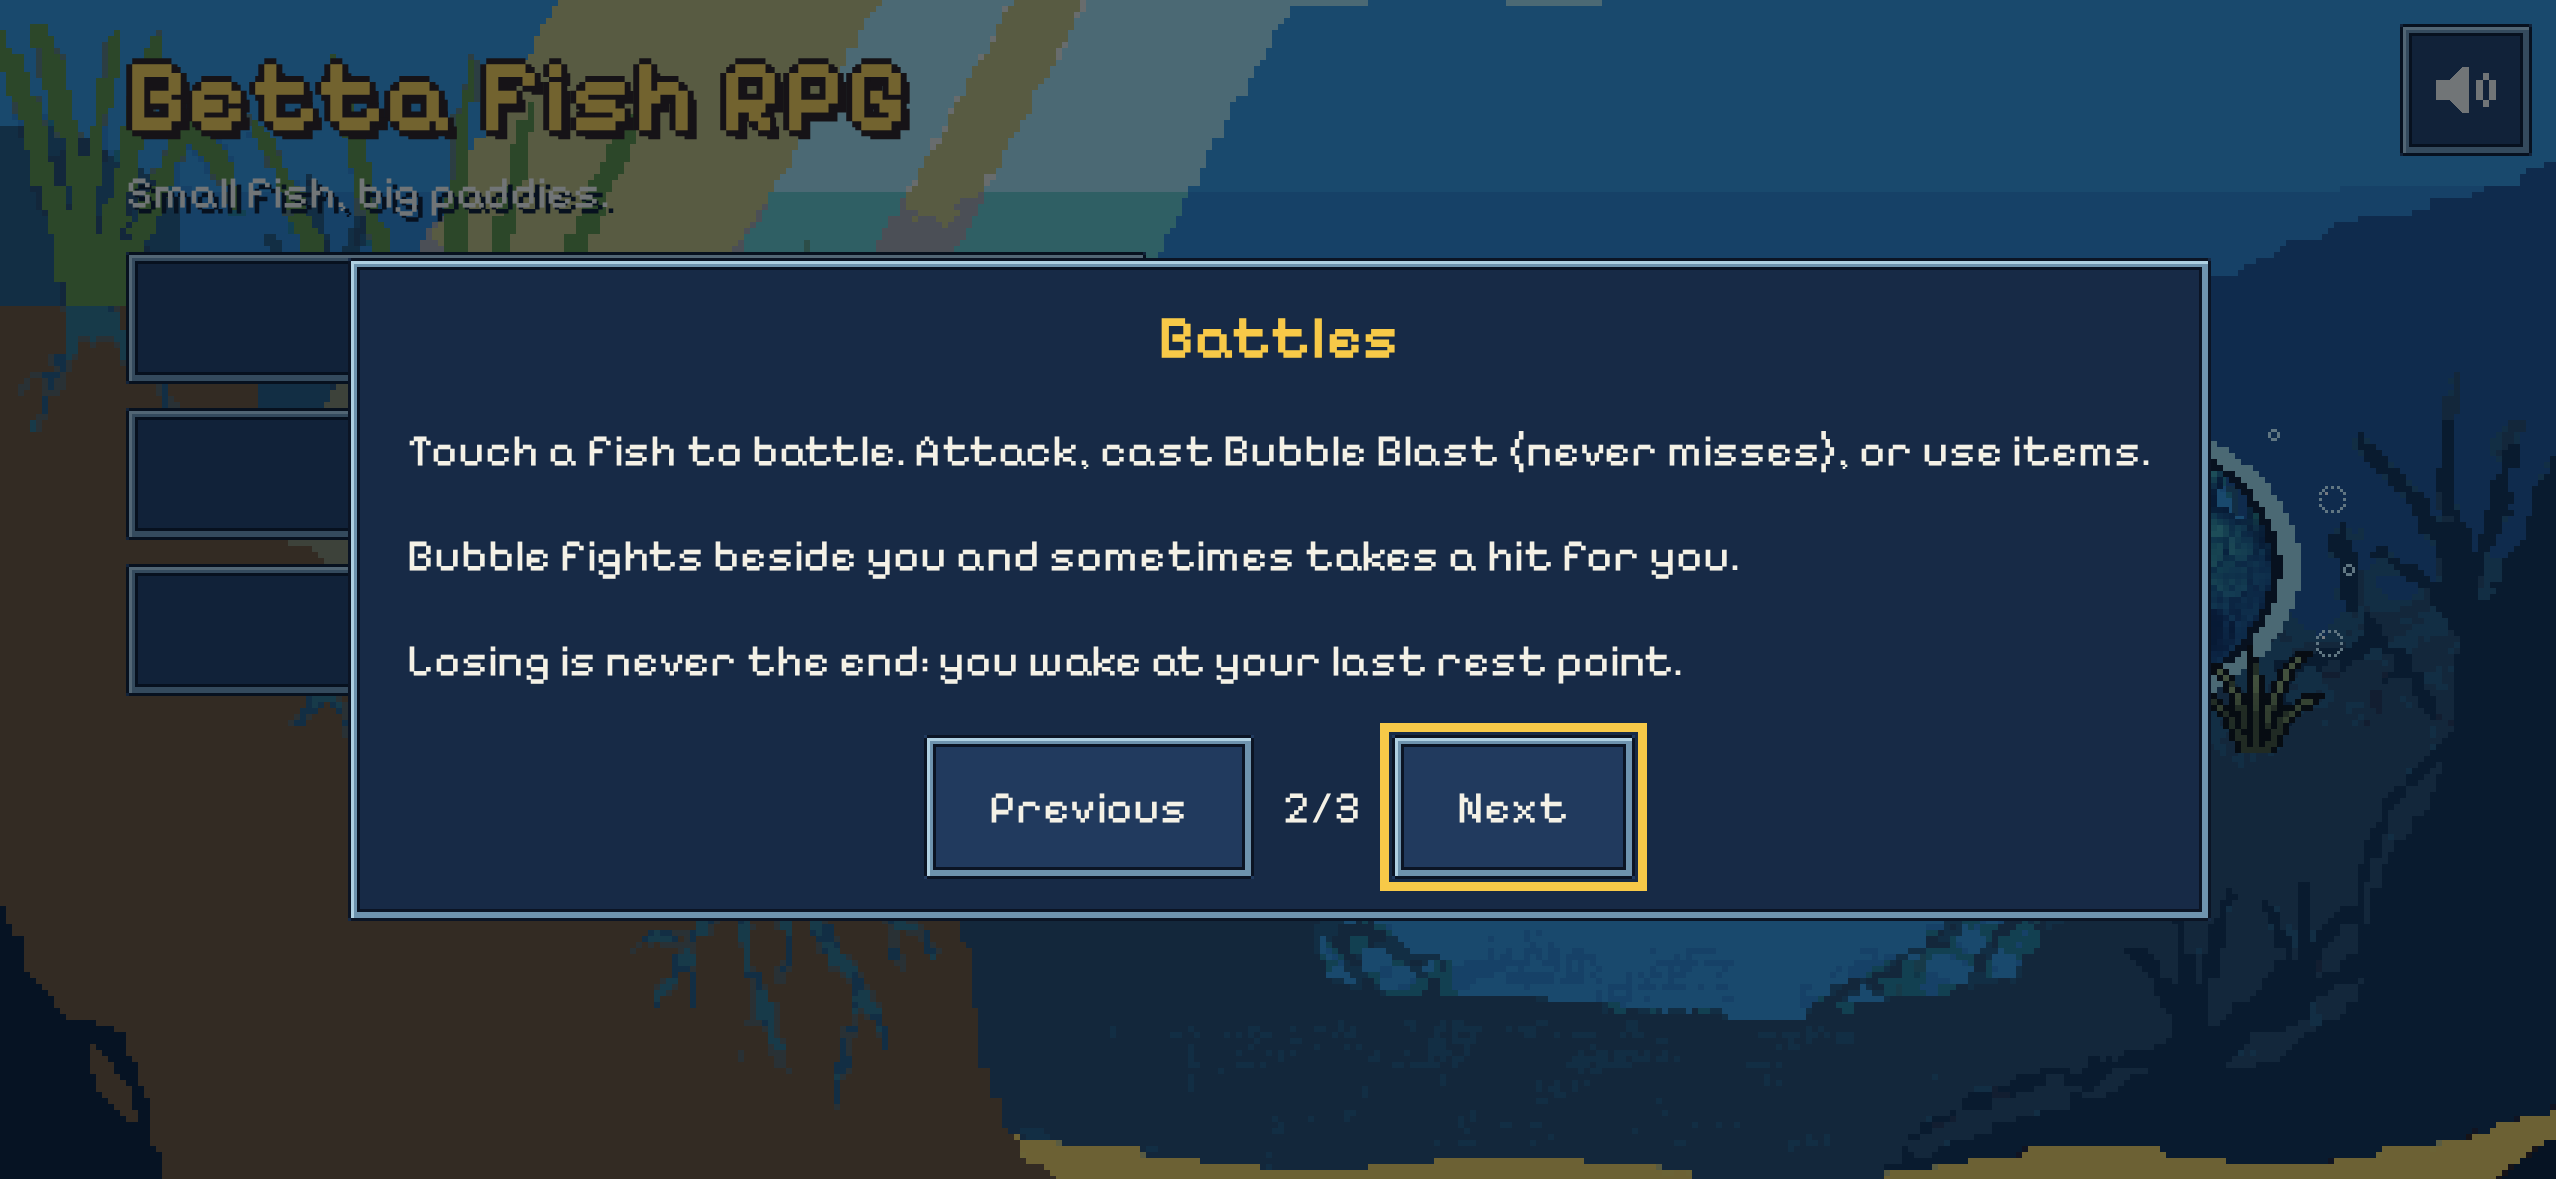
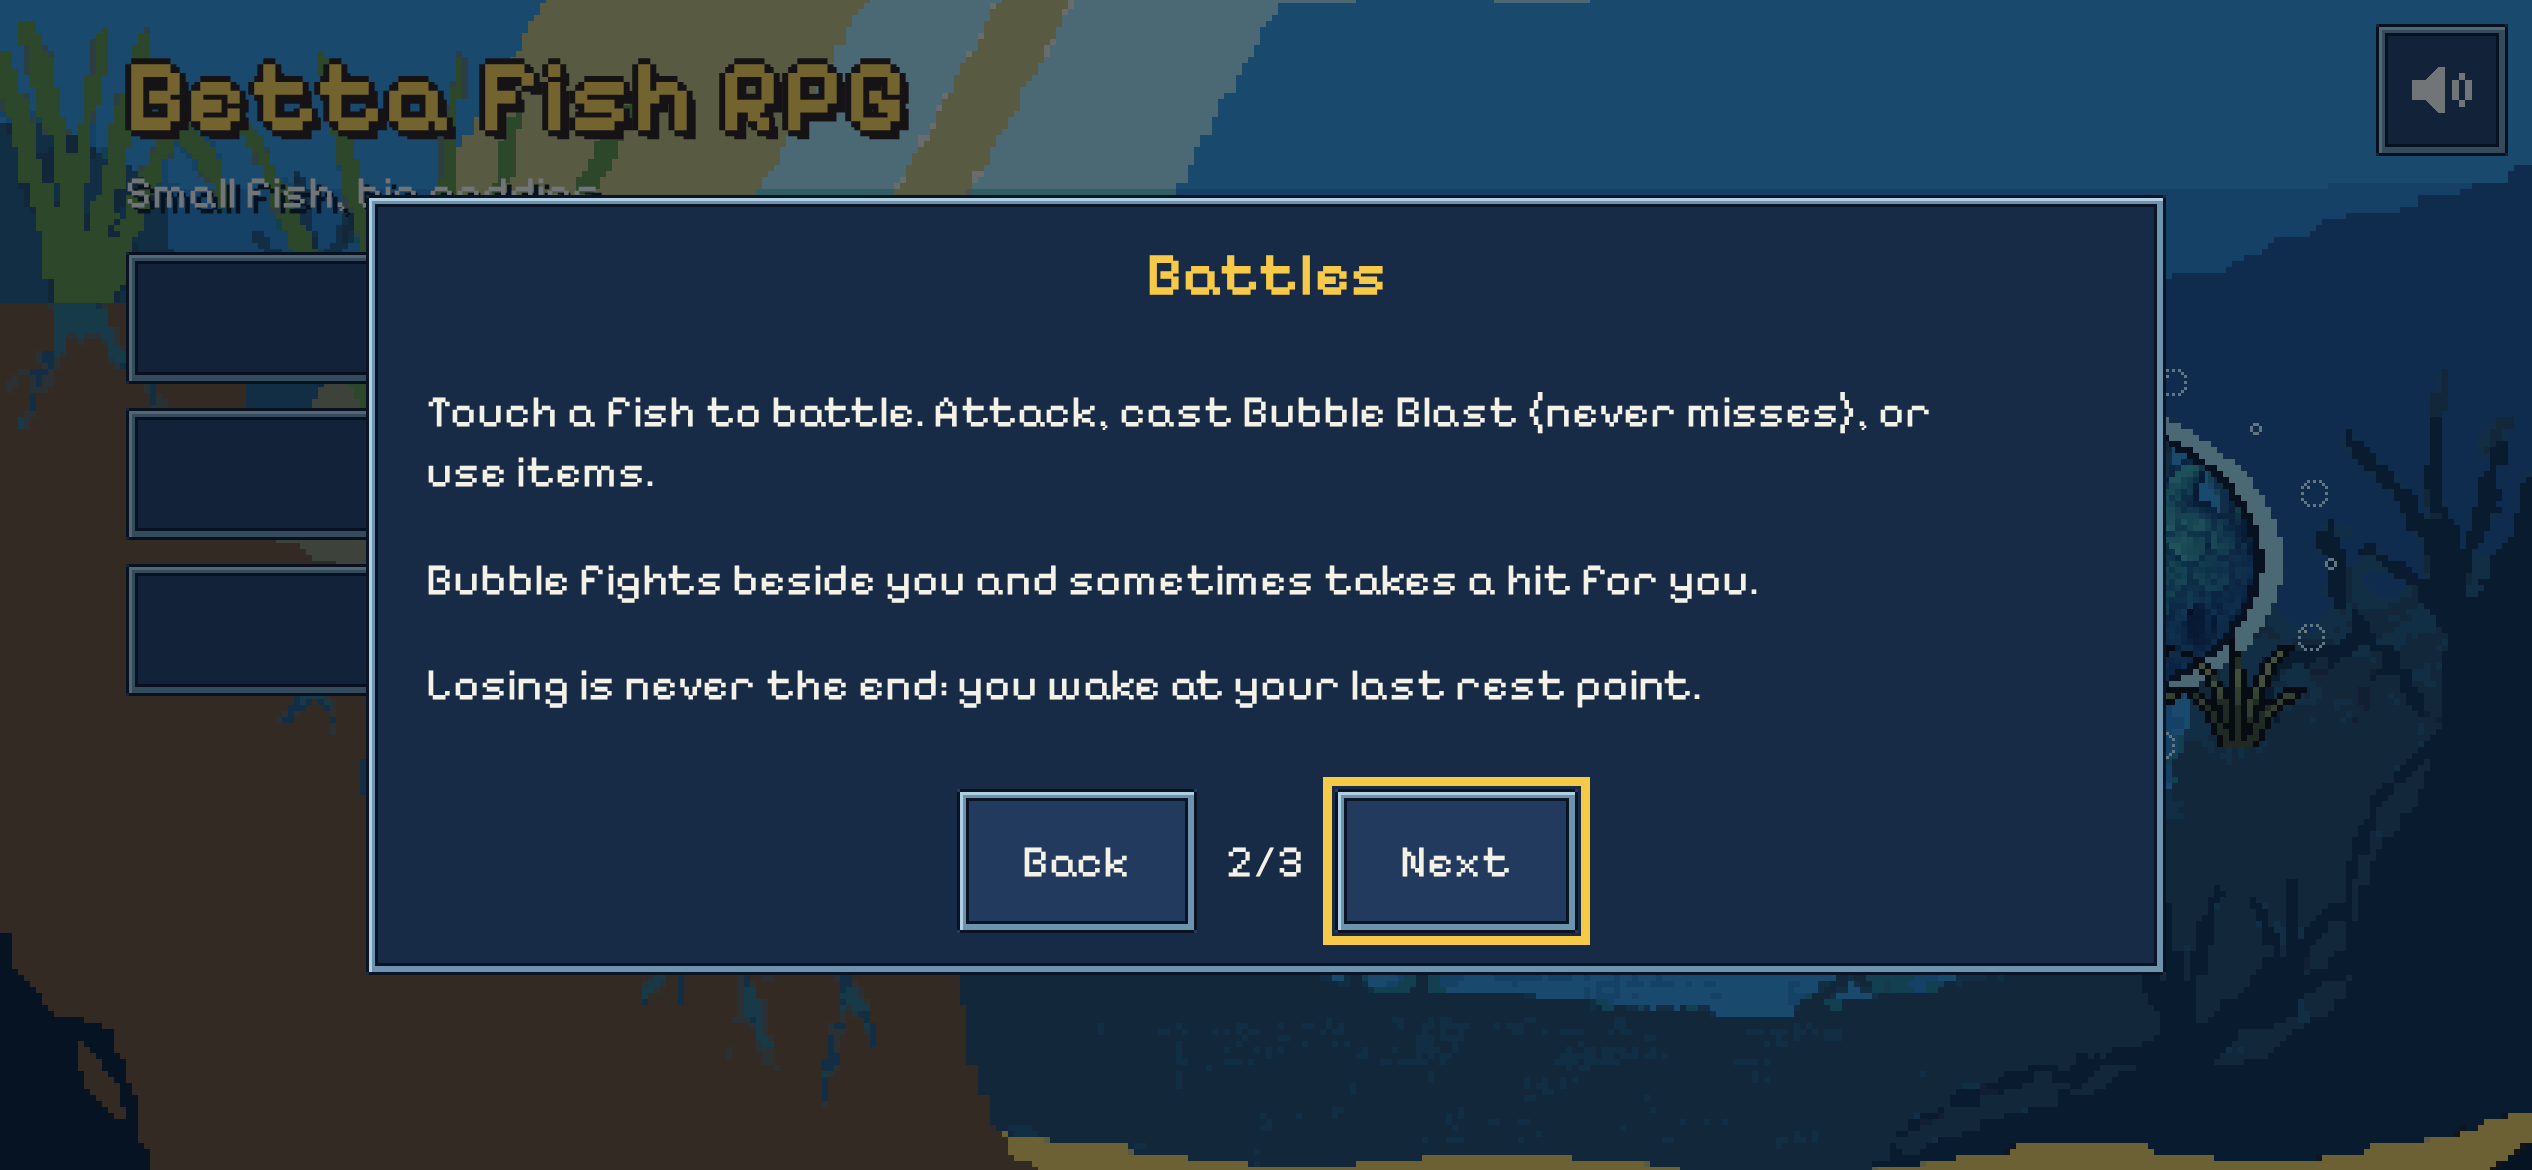
Polish re-check: tour covers the Gar fight, the sub, a won battle, ending and credits at every size; fresh screenshots; no lone words in credits or dialogue

diff --git a/tools/screens-tour.js b/tools/screens-tour.js
@@ -64,5 +64,28 @@ async (page) => {
   await page.evaluate(() => window.__game.goToLevel(4)); await sleep(1000); await shot('murk');
   await page.evaluate(() => window.__game.goToLevel(3)); await page.evaluate(() => window.__game.set({ pos: { x: 700, y: 300 } })); await sleep(1200); await shot('highwater');
   await page.evaluate(() => window.__game.goToLevel(5)); await page.evaluate(() => window.__game.set({ pos: { x: 300, y: 430 } })); await sleep(1200); await shot('ditch');
+  for (let i = 0; i < 10; i++) { const t = await st(); if (!t.dialog && !t.busy) break; await press('Space'); }
+  // the Gar fight, a level-up win, the sub, an ending and its credits
+  const waitIdle = async () => { for (let i = 0; i < 40; i++) { const t = await st(); if (t.inBattle && !t.inBattle.busy) return; await sleep(200); } };
+  await page.evaluate(() => window.__game.goToLevel(5)); await sleep(800);
+  for (let i = 0; i < 10; i++) { const t = await st(); if (!t.dialog && !t.busy) break; await press('Space'); }
+  await page.evaluate(() => { window.__game.set({ friends: { guppy: 3, angel: 3 } }); window.__game.battle('gar', 10); });
+  await sleep(1000); await waitIdle(); await shot('gar');
+  await press('Digit3'); await sleep(3500); await waitIdle(); await shot('gar-party');
+  await page.evaluate(() => window.__game.goToLevel(2)); await sleep(500);
+  await page.evaluate(() => { window.__game.set({ level: 4, sub: true, flags: { tutorialDone: true } }); window.__game.battle('guppy', 1); });
+  await sleep(1000); await waitIdle();
+  { const b = await page.locator('#bDive').boundingBox(); await page.mouse.click(b.x + 20, b.y + 20); }
+  await sleep(1800); await waitIdle(); await shot('battle-dive');
+  await page.evaluate(() => window.__game.goToLevel(1)); await sleep(500);
+  await page.evaluate(() => { window.__game.set({ level: 2, flags: { tutorialDone: true } }); window.__game.battle('angel', 2); });
+  await sleep(1000);
+  await page.evaluate(() => { const g = window.__game; g.set({}); });
+  for (let i = 0; i < 40; i++) { const t = await st(); if (!t.inBattle || t.inBattle.waiting) break; if (!t.inBattle.busy) await press('Digit1'); await sleep(500); }
+  await sleep(1500); await shot('battle-won');
+  await press('Enter'); await sleep(1500);
+  await page.evaluate(() => window.__game.ending('friend')); await sleep(4000); await shot('ending');
+  for (let i = 0; i < 30; i++) { const t = await st(); if (t.menus.includes('credits')) break; if (t.dialog) await press('Space'); await sleep(400); }
+  await sleep(600); await shot('credits');
   return JSON.stringify(out, null, 1);
 }

diff --git a/game/style.css b/game/style.css
@@ -131,7 +131,7 @@ body.inbattle #hint { align-items: flex-start; padding-top: calc(78px + var(--sa
 .dlgbox { display: flex; gap: 12px; width: min(820px, 100%); padding: 8px 14px 10px 8px; min-height: 104px; position: relative; }
 .dlgtext { flex: 1; min-width: 0; }
 .dname { color: var(--gold); margin-bottom: 2px; }
-.dline { line-height: 1.3; min-height: 2.6em; }
+.dline { line-height: 1.3; min-height: 2.6em; text-wrap: pretty; }
 .choices { display: flex; flex-wrap: wrap; gap: 8px; margin-top: 8px; }
 .dnext { position: absolute; right: 12px; bottom: 6px; color: var(--gold); animation: blink 0.8s infinite steps(2); }
 @keyframes blink { 50% { opacity: 0; } }
@@ -263,3 +263,4 @@ body.short.garfight .meter span { width: 14px; height: 18px; }
 body.short [data-screen=credits] .credits { max-height: 70%; padding: 6px 12px; font-size: 0.85em; }
 body.short #creditsBody { grid-template-columns: 1fr 1fr 1fr; }
 body.short [data-screen=credits] .credits h2 { display: none; }
+#garFriends { white-space: nowrap; }

diff --git a/game/src/main.js b/game/src/main.js
@@ -915,7 +915,7 @@ function openCredits(kind) {
     $('creditsBody').innerHTML = [
       `<div style="grid-column: 1 / -1"><p>${kind === 'friend' ? 'The friendship ending: the old Gar has a village now.' : 'The fins ending: the paddies are safe.'} <span style="white-space:nowrap">${escapeHtml(s.name)} · Level&nbsp;${s.level} · Friends&nbsp;${state.friendsTotal(s)}${s.flags.garFriend ? ' + the&nbsp;Gar' : ''}</span></p></div>`,
       c('Idea and original game by', 'Rich Conlan'),
-      c('Original sprites', 'from the original Betta Fish RPG'),
+      c('Original sprites', 'from the original Betta Fish&nbsp;RPG'),
       c('Remake', 'made with gamegen (Claude)'),
       c('New art, music and sounds', 'generated, finished in code'),
       c('Font', 'Pixelify Sans (SIL&nbsp;OFL)'),
